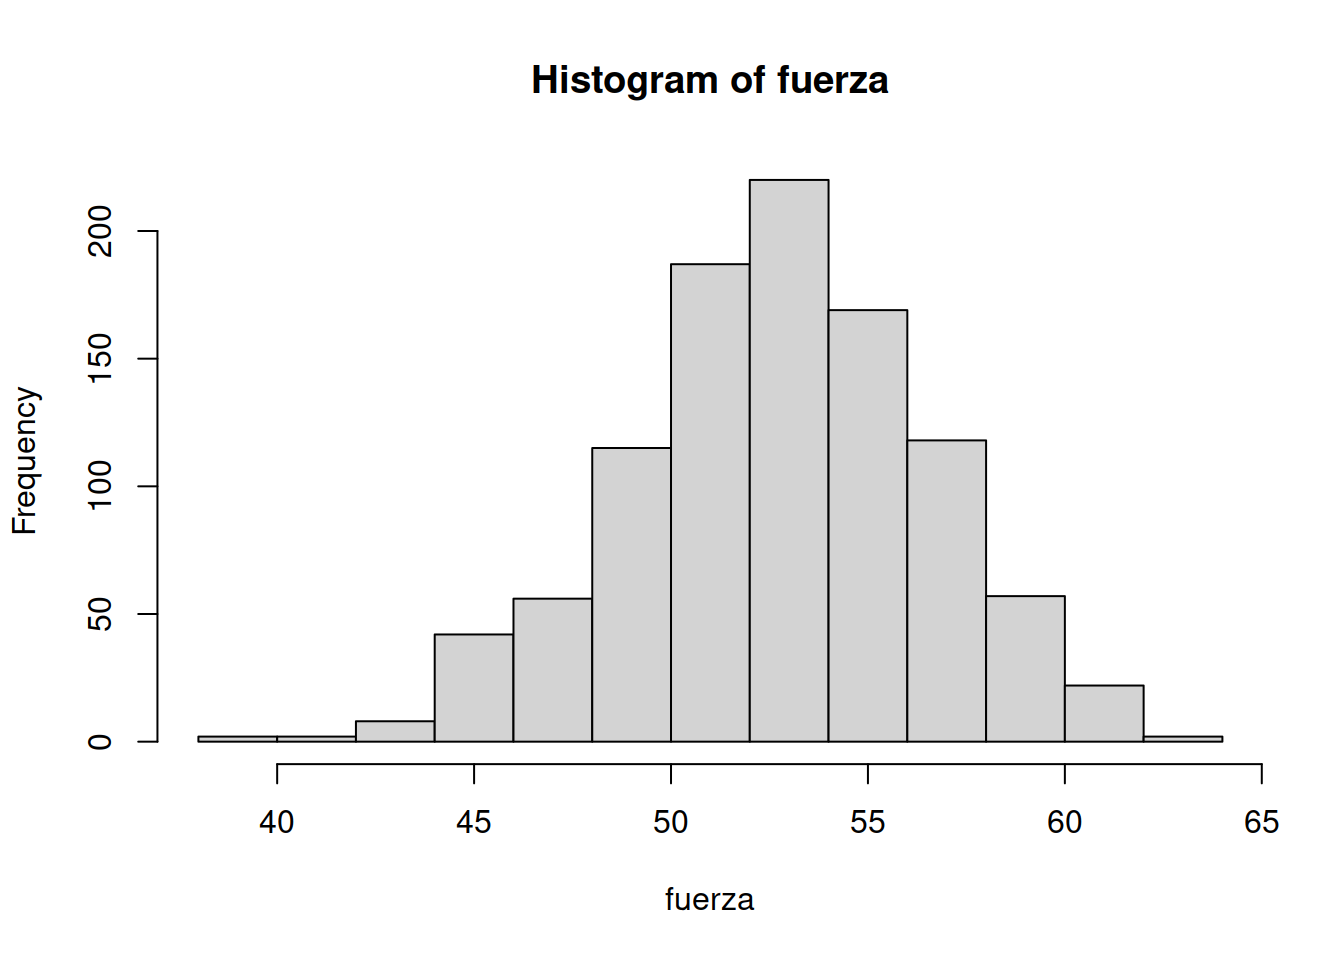
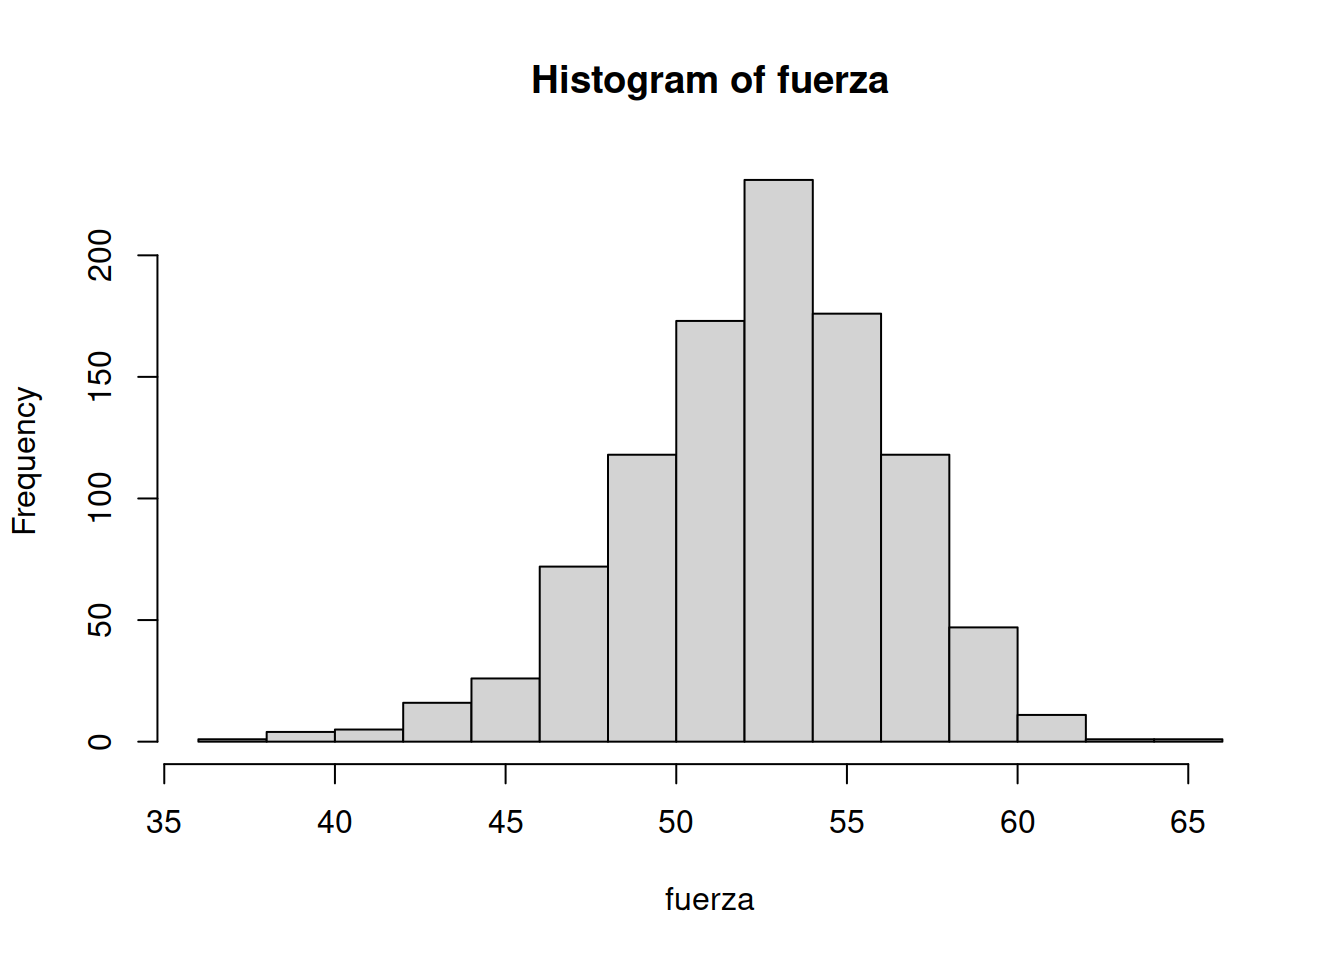
ajustes adicionales

diff --git a/docs/index.html b/docs/index.html
@@ -346,13 +346,13 @@ hist(fuerza)</code></pre>
 <li>Estime la mediana de la fuerza del cable.</li>
 </ol>
 <pre class="r"><code>cat(&quot;Media de la fuerza de resistencia : &quot;, mean(fuerza), &quot;\n&quot;)</code></pre>
-<pre><code>Media de la fuerza de resistencia :  52.71332 </code></pre>
+<pre><code>Media de la fuerza de resistencia :  52.46656 </code></pre>
 <p><br/><br/></p>
 <ol start="3" style="list-style-type: lower-alpha">
 <li>Estime la desviación estándar de la fuerza del cable.</li>
 </ol>
 <pre class="r"><code>cat(&quot;Desviación estandar de la fuerza de resistencia : &quot;,sd(fuerza), &quot;\n&quot;)</code></pre>
-<pre><code>Desviación estandar de la fuerza de resistencia :  3.820399 </code></pre>
+<pre><code>Desviación estandar de la fuerza de resistencia :  3.862782 </code></pre>
 <p><br/><br/></p>
 <ol start="4" style="list-style-type: lower-alpha">
 <li>Para que sea aceptable en cierta obra, la probabilidad de que el
@@ -362,7 +362,7 @@ kN\)</span> debe ser menor a <span class="math inline">\(0.01\)</span>.
 </ol>
 <pre class="r"><code>probRes=sum(as.numeric(fuerza&gt;60))/1000
 cat(&quot;P(X &gt; 60) = &quot;,probRes, &quot;\n&quot;)</code></pre>
-<pre><code>P(X &gt; 60) =  0.024 </code></pre>
+<pre><code>P(X &gt; 60) =  0.013 </code></pre>
 <ol start="5" style="list-style-type: lower-alpha">
 <li>Realice un breve comentario sobre los resultados obtenidos</li>
 </ol>
